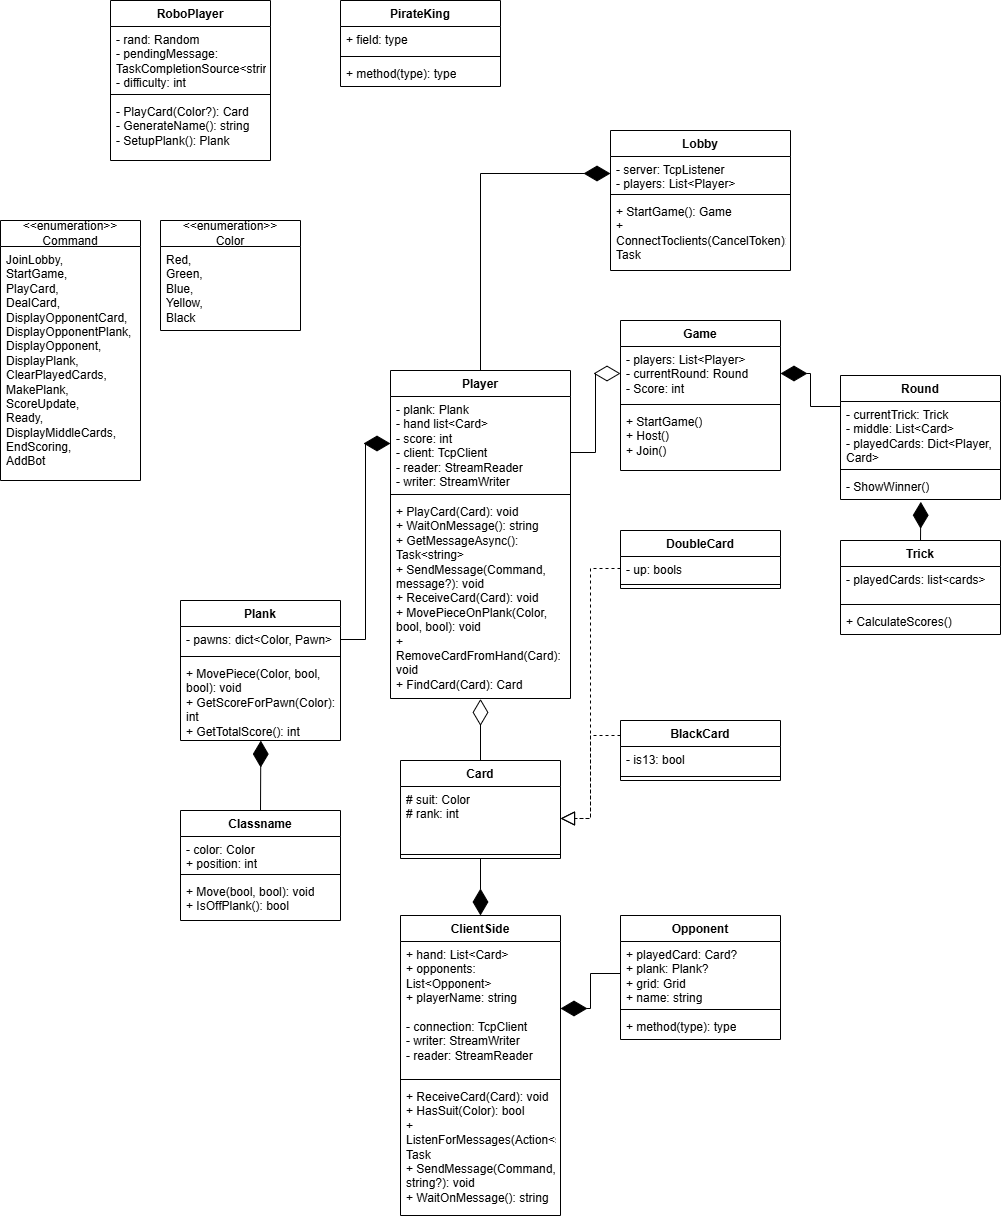
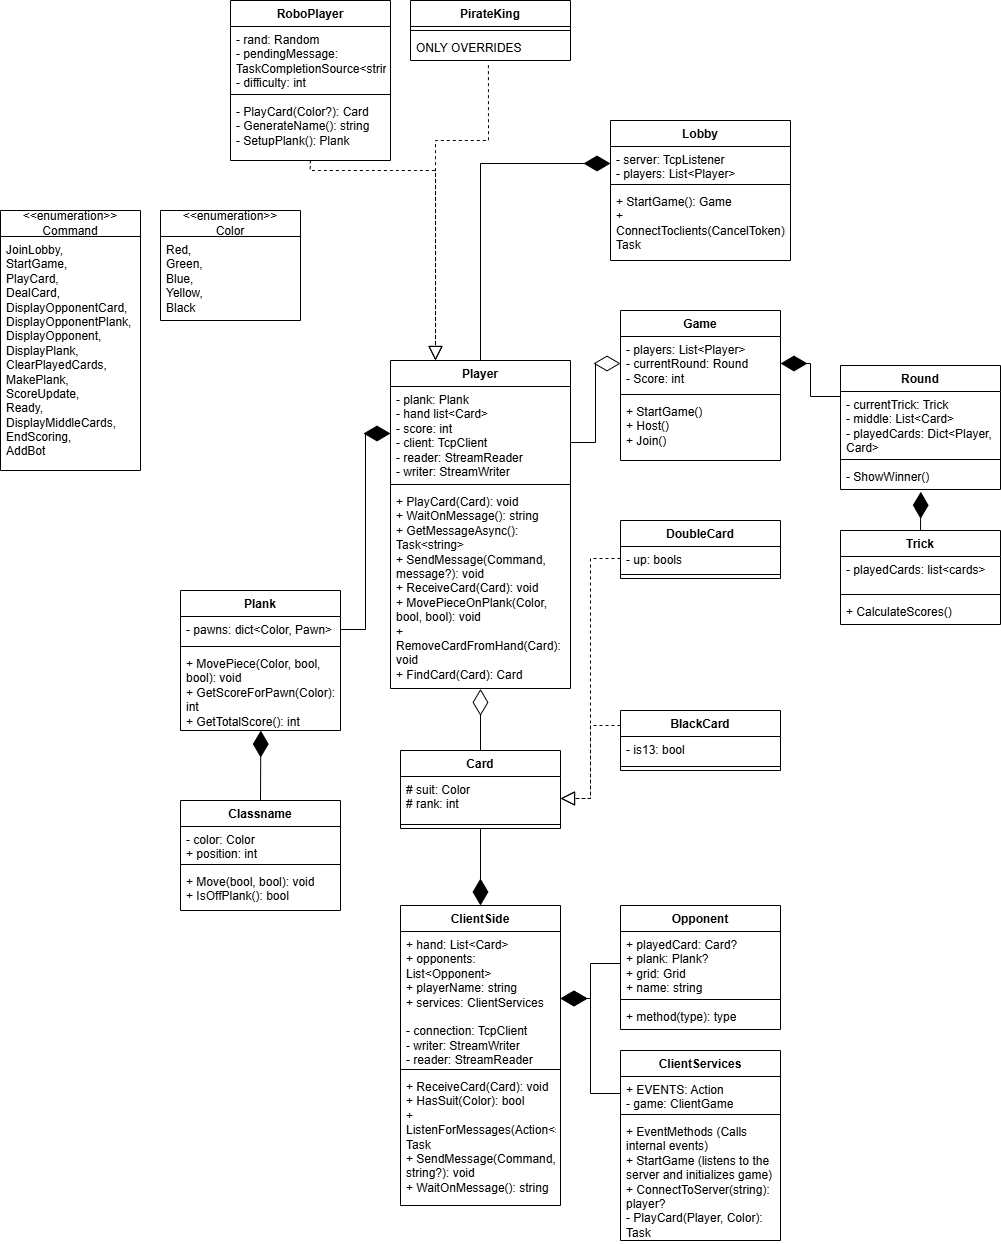
small updates

diff --git a/SkullQueenServer/Player.cs b/SkullQueenServer/Player.cs
@@ -30,8 +30,8 @@ namespace SkullQueenServer
             }
 
             this.name = name;
-
-            this.plank = new Plank(0, 0, 0, 0, false); // This will need to be set by the user later, but for now we can just initialize it with dummy values
+            // Initializes a dummy value for the plank that will later be overwriten by the players choice
+            this.plank = new Plank(0, 0, 0, 0, false);
             this.score = 0;
             this.hand = new List<Card>();
         }

diff --git a/SkullQueenServer/Program.cs b/SkullQueenServer/Program.cs
@@ -38,11 +38,8 @@ namespace SkullQueenServer
         }
         private static async Task UdpListener()
         {
-            Console.WriteLine("1");
             UdpClient server = new(5000);
-            Console.WriteLine("2");
             IPEndPoint remoteEP = new IPEndPoint(IPAddress.Any, 0);
-            Console.WriteLine("3");
 
             while (true)
             {